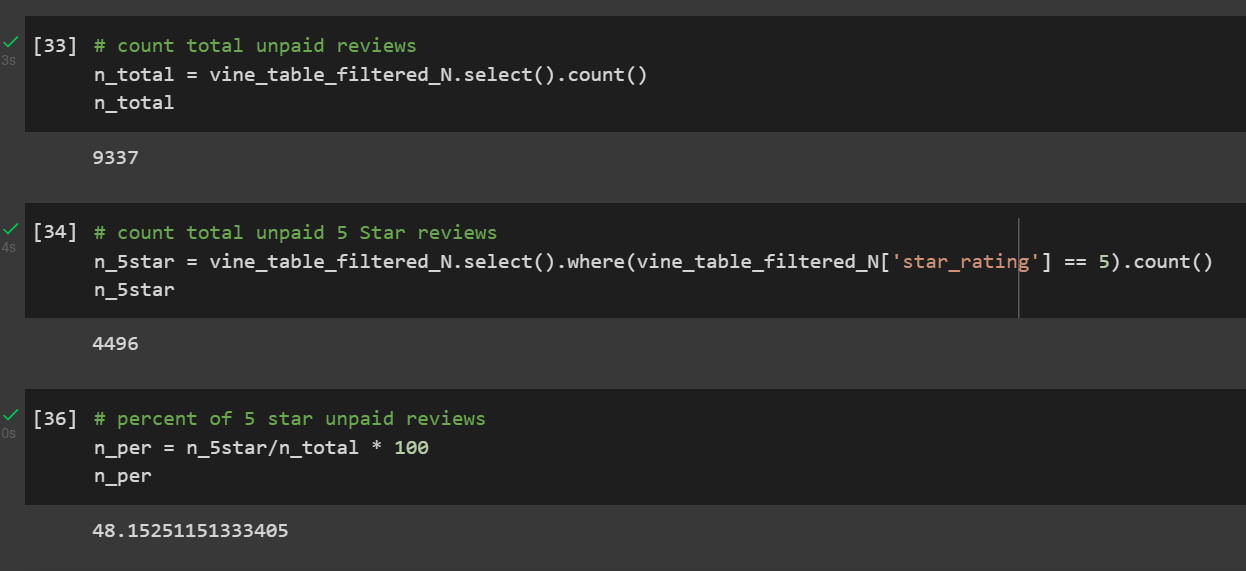
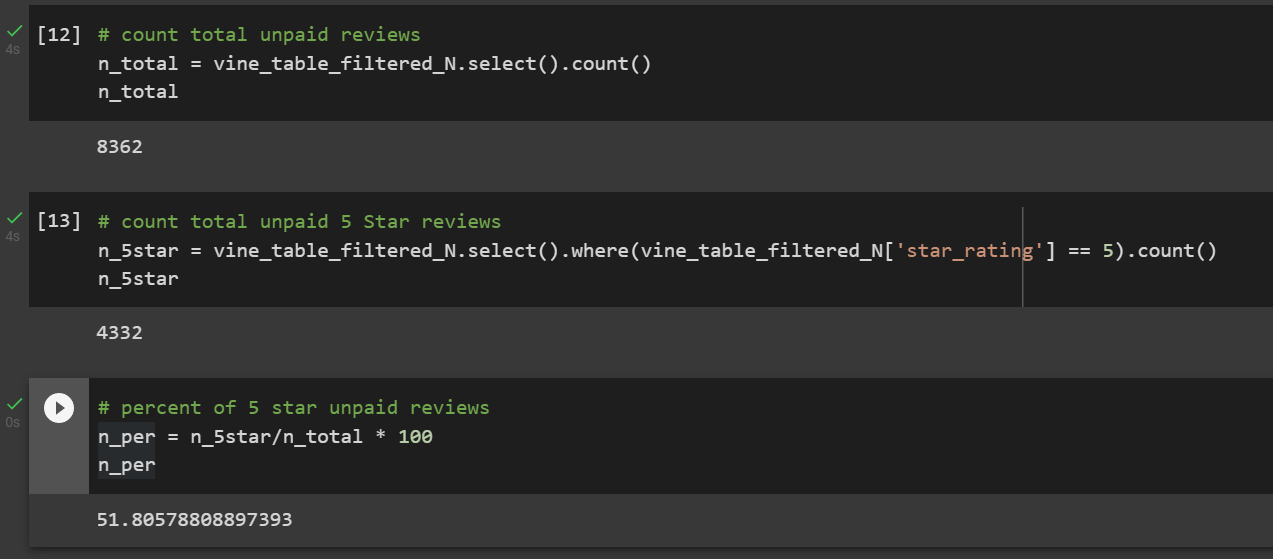
Corrected data

diff --git a/README.md b/README.md
@@ -26,15 +26,15 @@ Vine Program Reviews:
 ![Vine_counts](https://github.com/Jforbus/Amazon_Vine_Analysis/blob/main/Resources/Vine_counts.png)
 
 Non-Vine Program Reviews:
-- Total Reviews: 9337
-- 5 Star Reviews: 4496
-- Percentage of total: 48.2%
+- Total Reviews: 8362
+- 5 Star Reviews: 4332
+- Percentage of total: 51.8%
 
 ![Non_vine_counts](https://github.com/Jforbus/Amazon_Vine_Analysis/blob/main/Resources/Non_vine_counts.png)
 
 ## Summary
-The analysis shows that a lower percentage of 5 star reviews exists in the Vine Program by what appears to be a significant amount. 48.2% of the reviews outside the Vine Program are 5 star reviews. Only 32% of reviews in the Vine Program are 5 star reviews. From this data it does not appear that there is a positivity bias for reviews in the Vine Program. 
+The analysis shows that a lower percentage of 5 star reviews exists in the Vine Program by what appears to be a significant amount. 51.8% of the reviews outside the Vine Program are 5 star reviews. Only 32% of reviews in the Vine Program are 5 star reviews. From this data it does not appear that there is a positivity bias for reviews in the Vine Program. 
 
-However, Vine Program reviews account for only 47 reviews in the *Watches* category, compared to 9337 reviews not in the program. The small data set present here for the Vine Program may be hindering the analysis. 
+However, Vine Program reviews account for only 47 reviews in the *Watches* category, compared to 8362 reviews not in the program. The small data set present here for the Vine Program may be hindering the analysis. 
 
 An additional analysis could help give further insight. 4 Star reviews are also considered positive reviews. Conducting a count and calculating the percentage of 4 Star reviews in each category as done for 5 Star reviews would add relevant data and potentially support the prior findings.  
